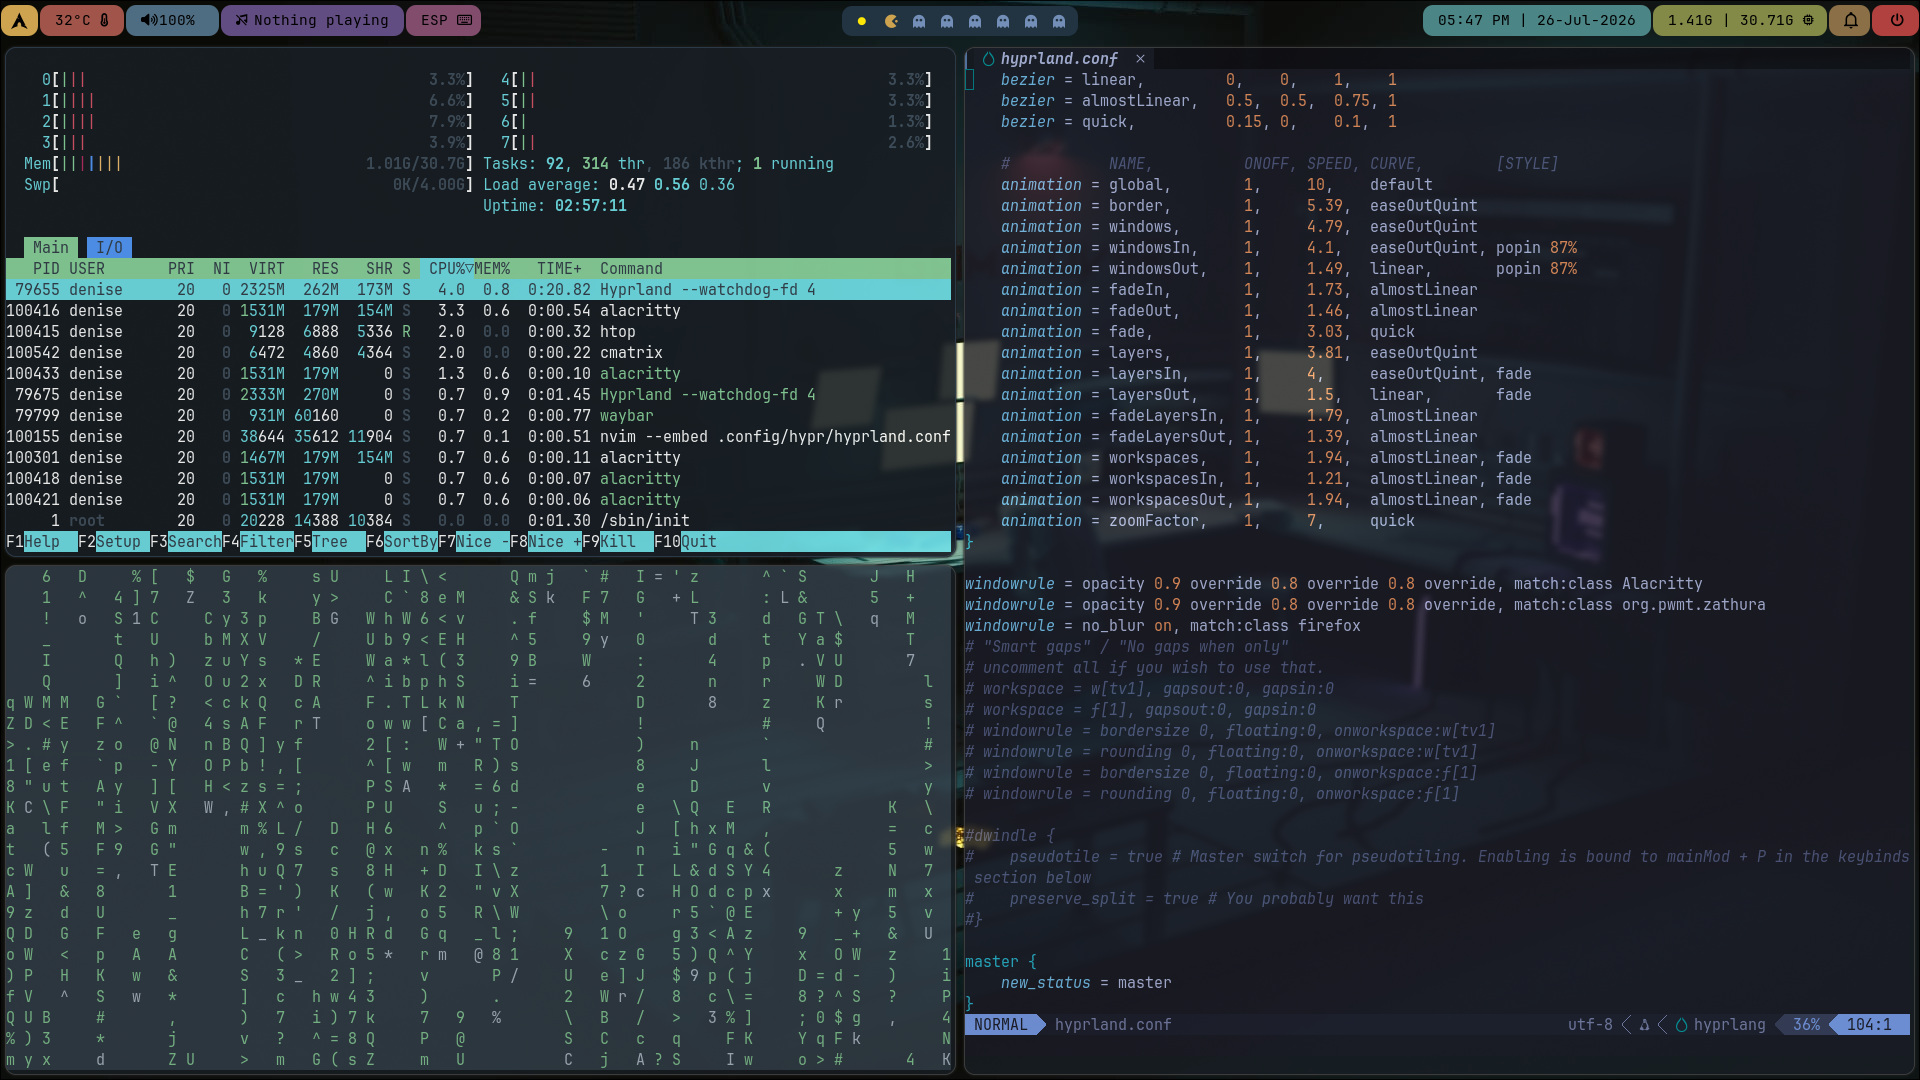
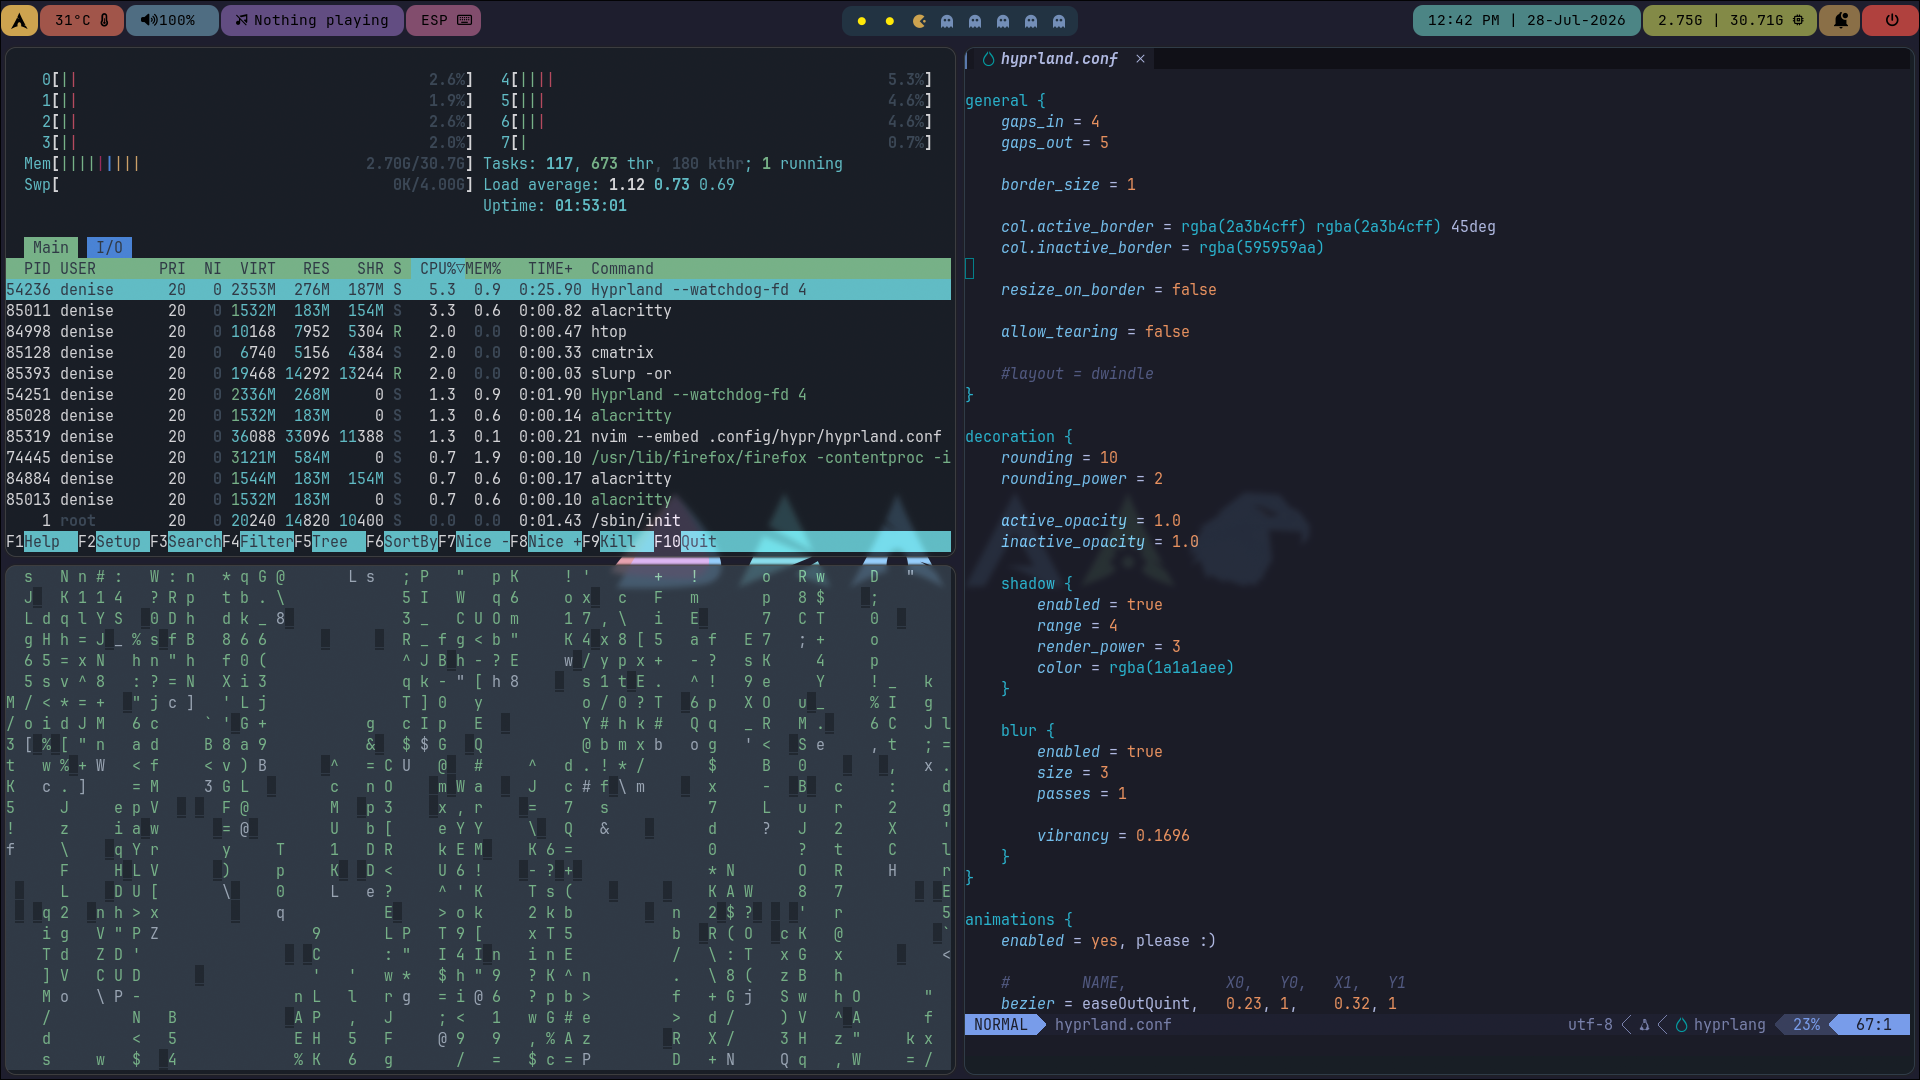
fix: widget calendar position

diff --git a/README.md b/README.md
@@ -5,16 +5,20 @@ Personal Linux rice based on Arch Linux using Hyprland as the window manager.
 Focused on a minimal, clean, and functional workflow.
 
 ## Preview
-![Desktop 1](desk_1.png)  
-![Desktop 2](desk_2.png)
+| | |
+|---|---|
+| ![](desk_1.png) | ![](desk_2.png) |
+| ![](desk_3.png) | ![](desk_4.png) |
+
 ![Firefox_config](firefox.png)
 
 ## Core Components
 - **WM:** Hyprland  
+- **Theme:** Nord  
 - **Terminal:** Alacritty  
 - **Launcher:** Rofi  
 - **Bar:** Waybar  
-- **Editor:** Neovim (LunarVim)
+- **Editor:** Neovim (LazyVim)
 - **Alternative Editor:** nano
 - **PDF Viewer:** Zathura  
 - **Shell:** zsh
@@ -25,16 +29,19 @@ Focused on a minimal, clean, and functional workflow.
 - **bat** – cat with syntax highlighting  
 - **fastfetch / ufetch** – system info tools  
 - **htop** – process viewer  
+- **cmatrix** – matrix effect  
 
 ## Firefox Extension
 - **nightTab** – by zombieFox
 
 ## Repository Structure
 - `alacritty/` → terminal configuration  
+- `gsimplecal/` → calendar widget configuration  
 - `hypr/` → Hyprland config  
+- `nvim/` → Neovim (LazyVim) setup  
+- `packages/` → packages installed  
 - `rofi/` → launcher themes and config  
 - `waybar/` → bar configuration  
-- `lvim/` → Neovim (LunarVim) setup  
 - `zathura/` → PDF viewer config  
 
 ## Installation
